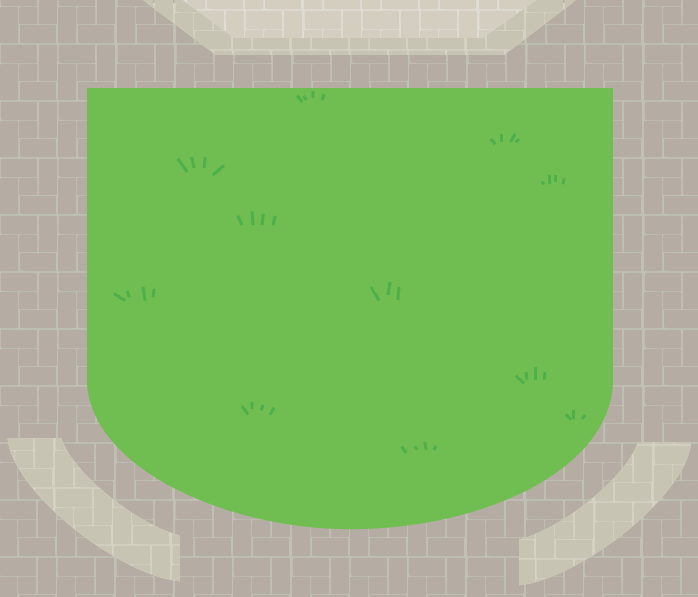
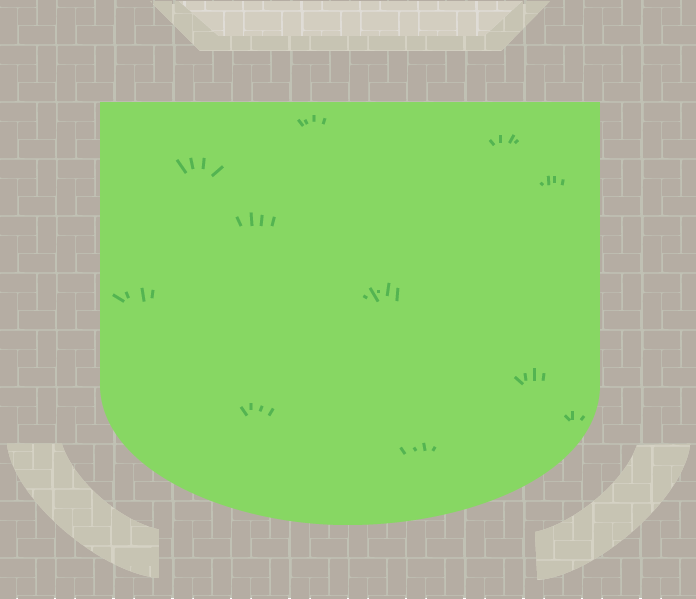
remove scroll

diff --git a/web/styles/main_style.css b/web/styles/main_style.css
@@ -63,7 +63,13 @@ body {
 
 .game-page .game-panel {
 	margin-left: 2%;
-	padding: 1%;
+	padding: 0;
+}
+.game-page .game-panel .game-canvas {
+	width: 665px;
+	height: 570px;
+	margin: auto;
+	overflow: hidden;
 }
 
 .game-page .code-list .panel-heading {
@@ -75,7 +81,6 @@ body {
 }
 
 .game-page .code-list .panel-body {
-	overflow: scroll;
 	font-family: 'Coming Soon', cursive;
 }
 .game-page .code-list .list-group .list-group-item {

diff --git a/web/html/game/index.html b/web/html/game/index.html
@@ -80,7 +80,9 @@
             
             <div class="panel panel-default col-md-7 game-panel">
               <div class="panel-body"> 
-                <div class="game-canvas"></div>
+                <div class="game-canvas">
+                  <img src="../../source/map1_v2.png" height="570px">
+                </div>
               </div>
             </div>
           </div>
